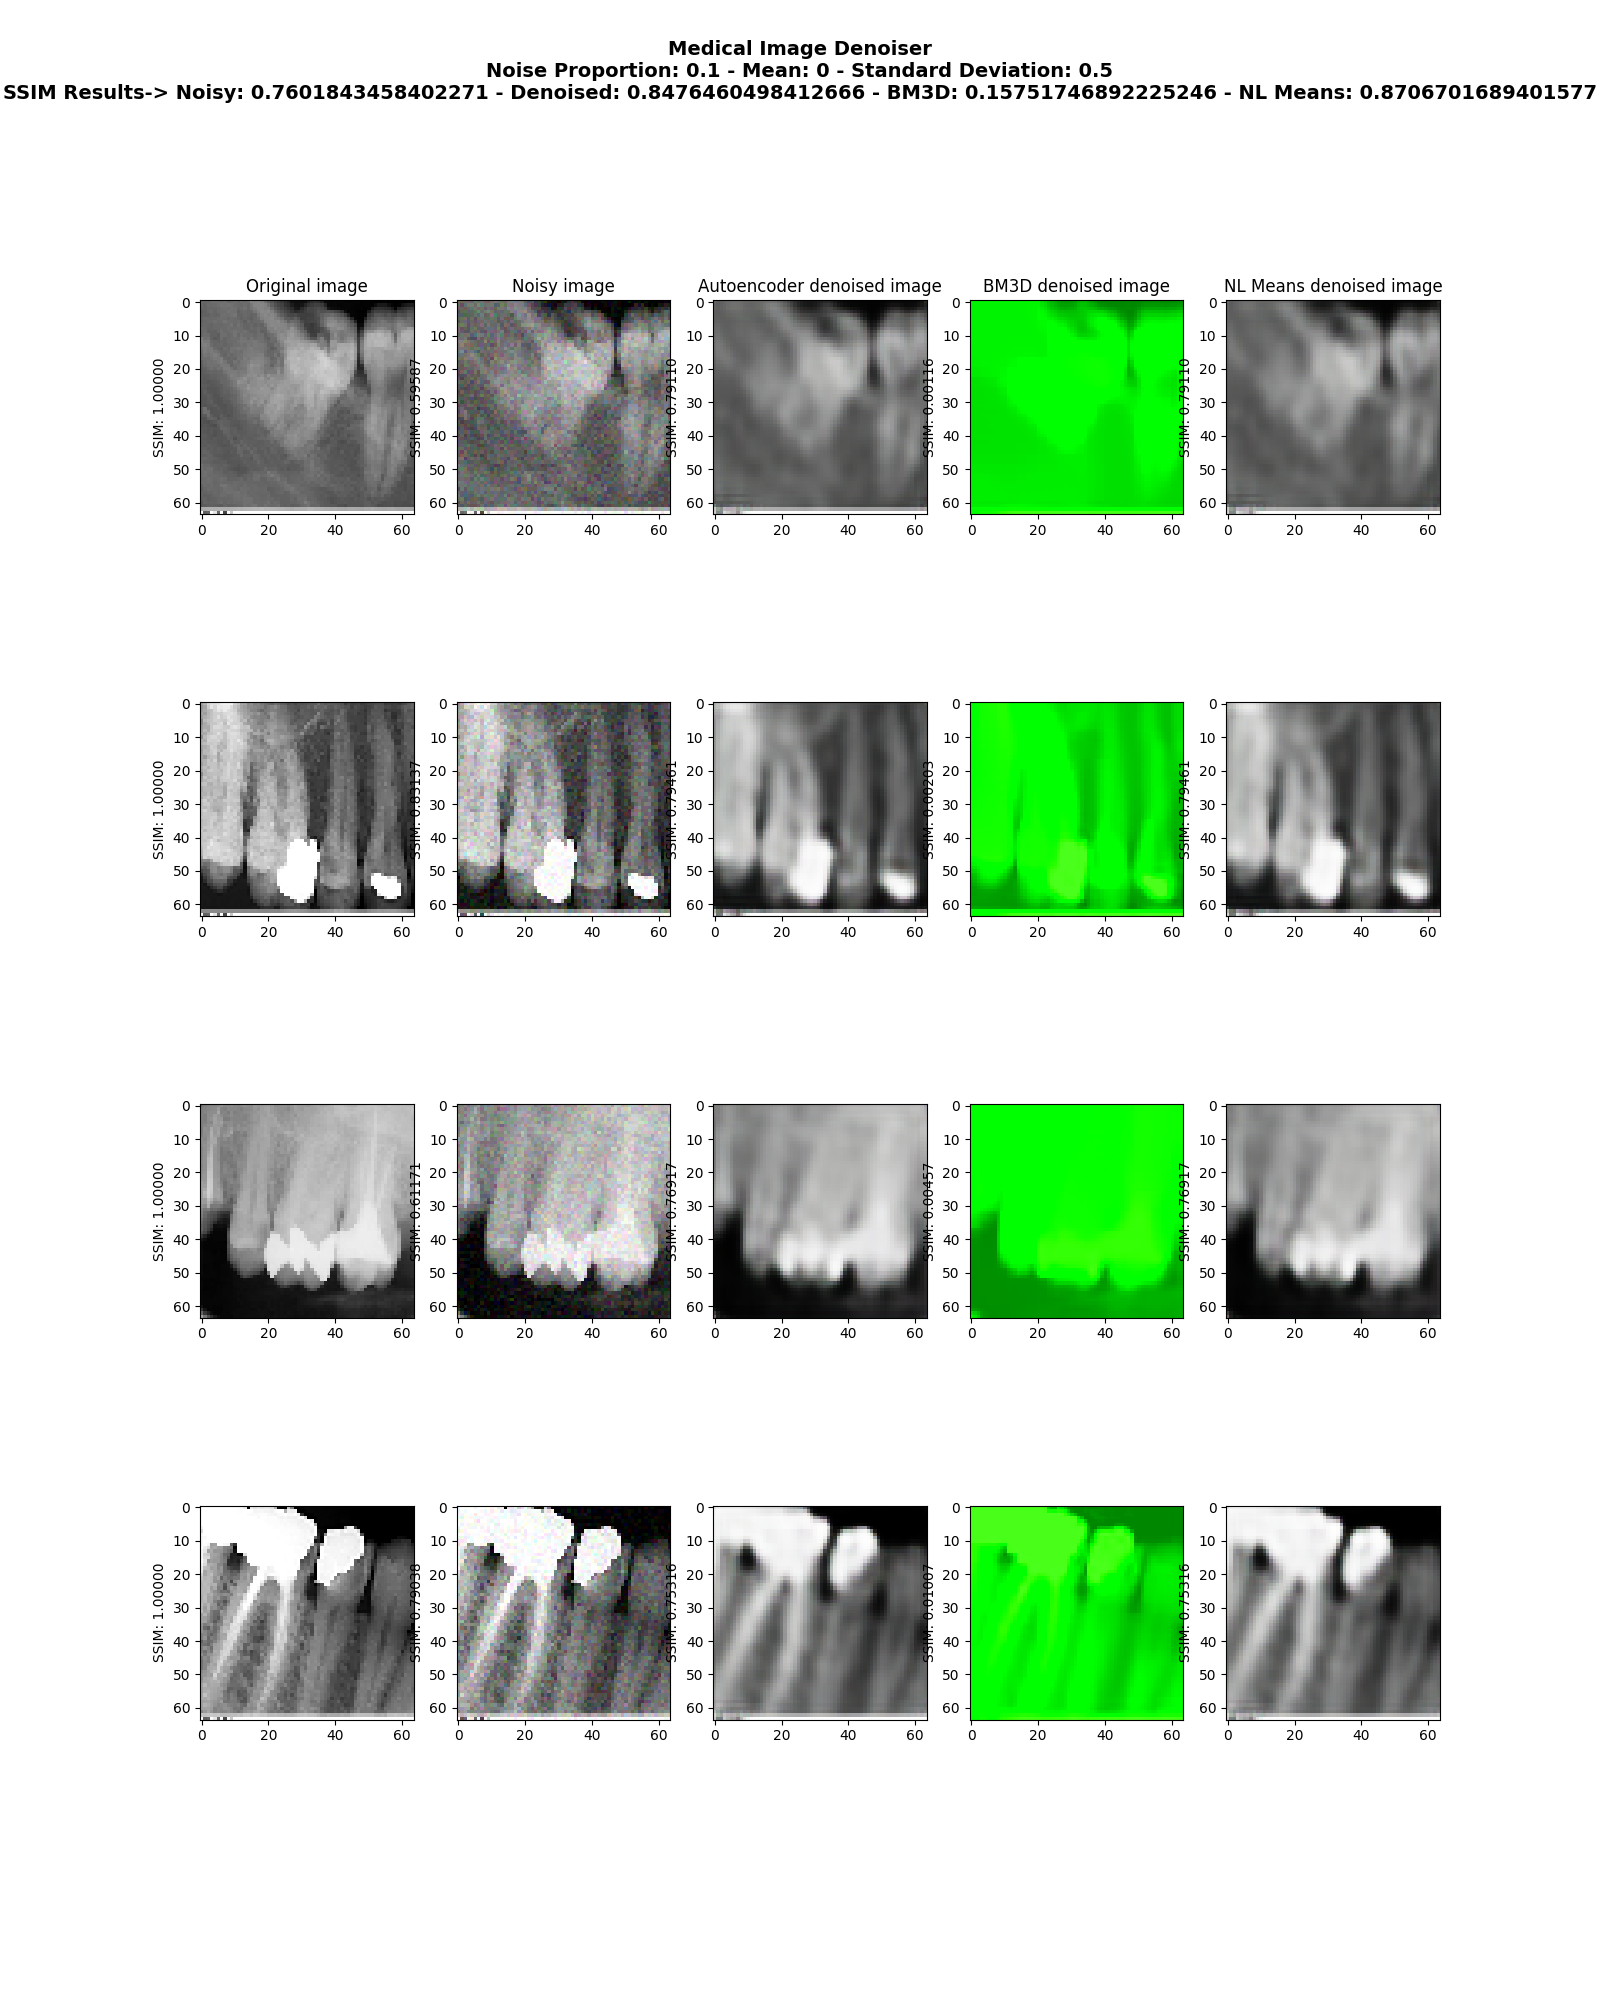
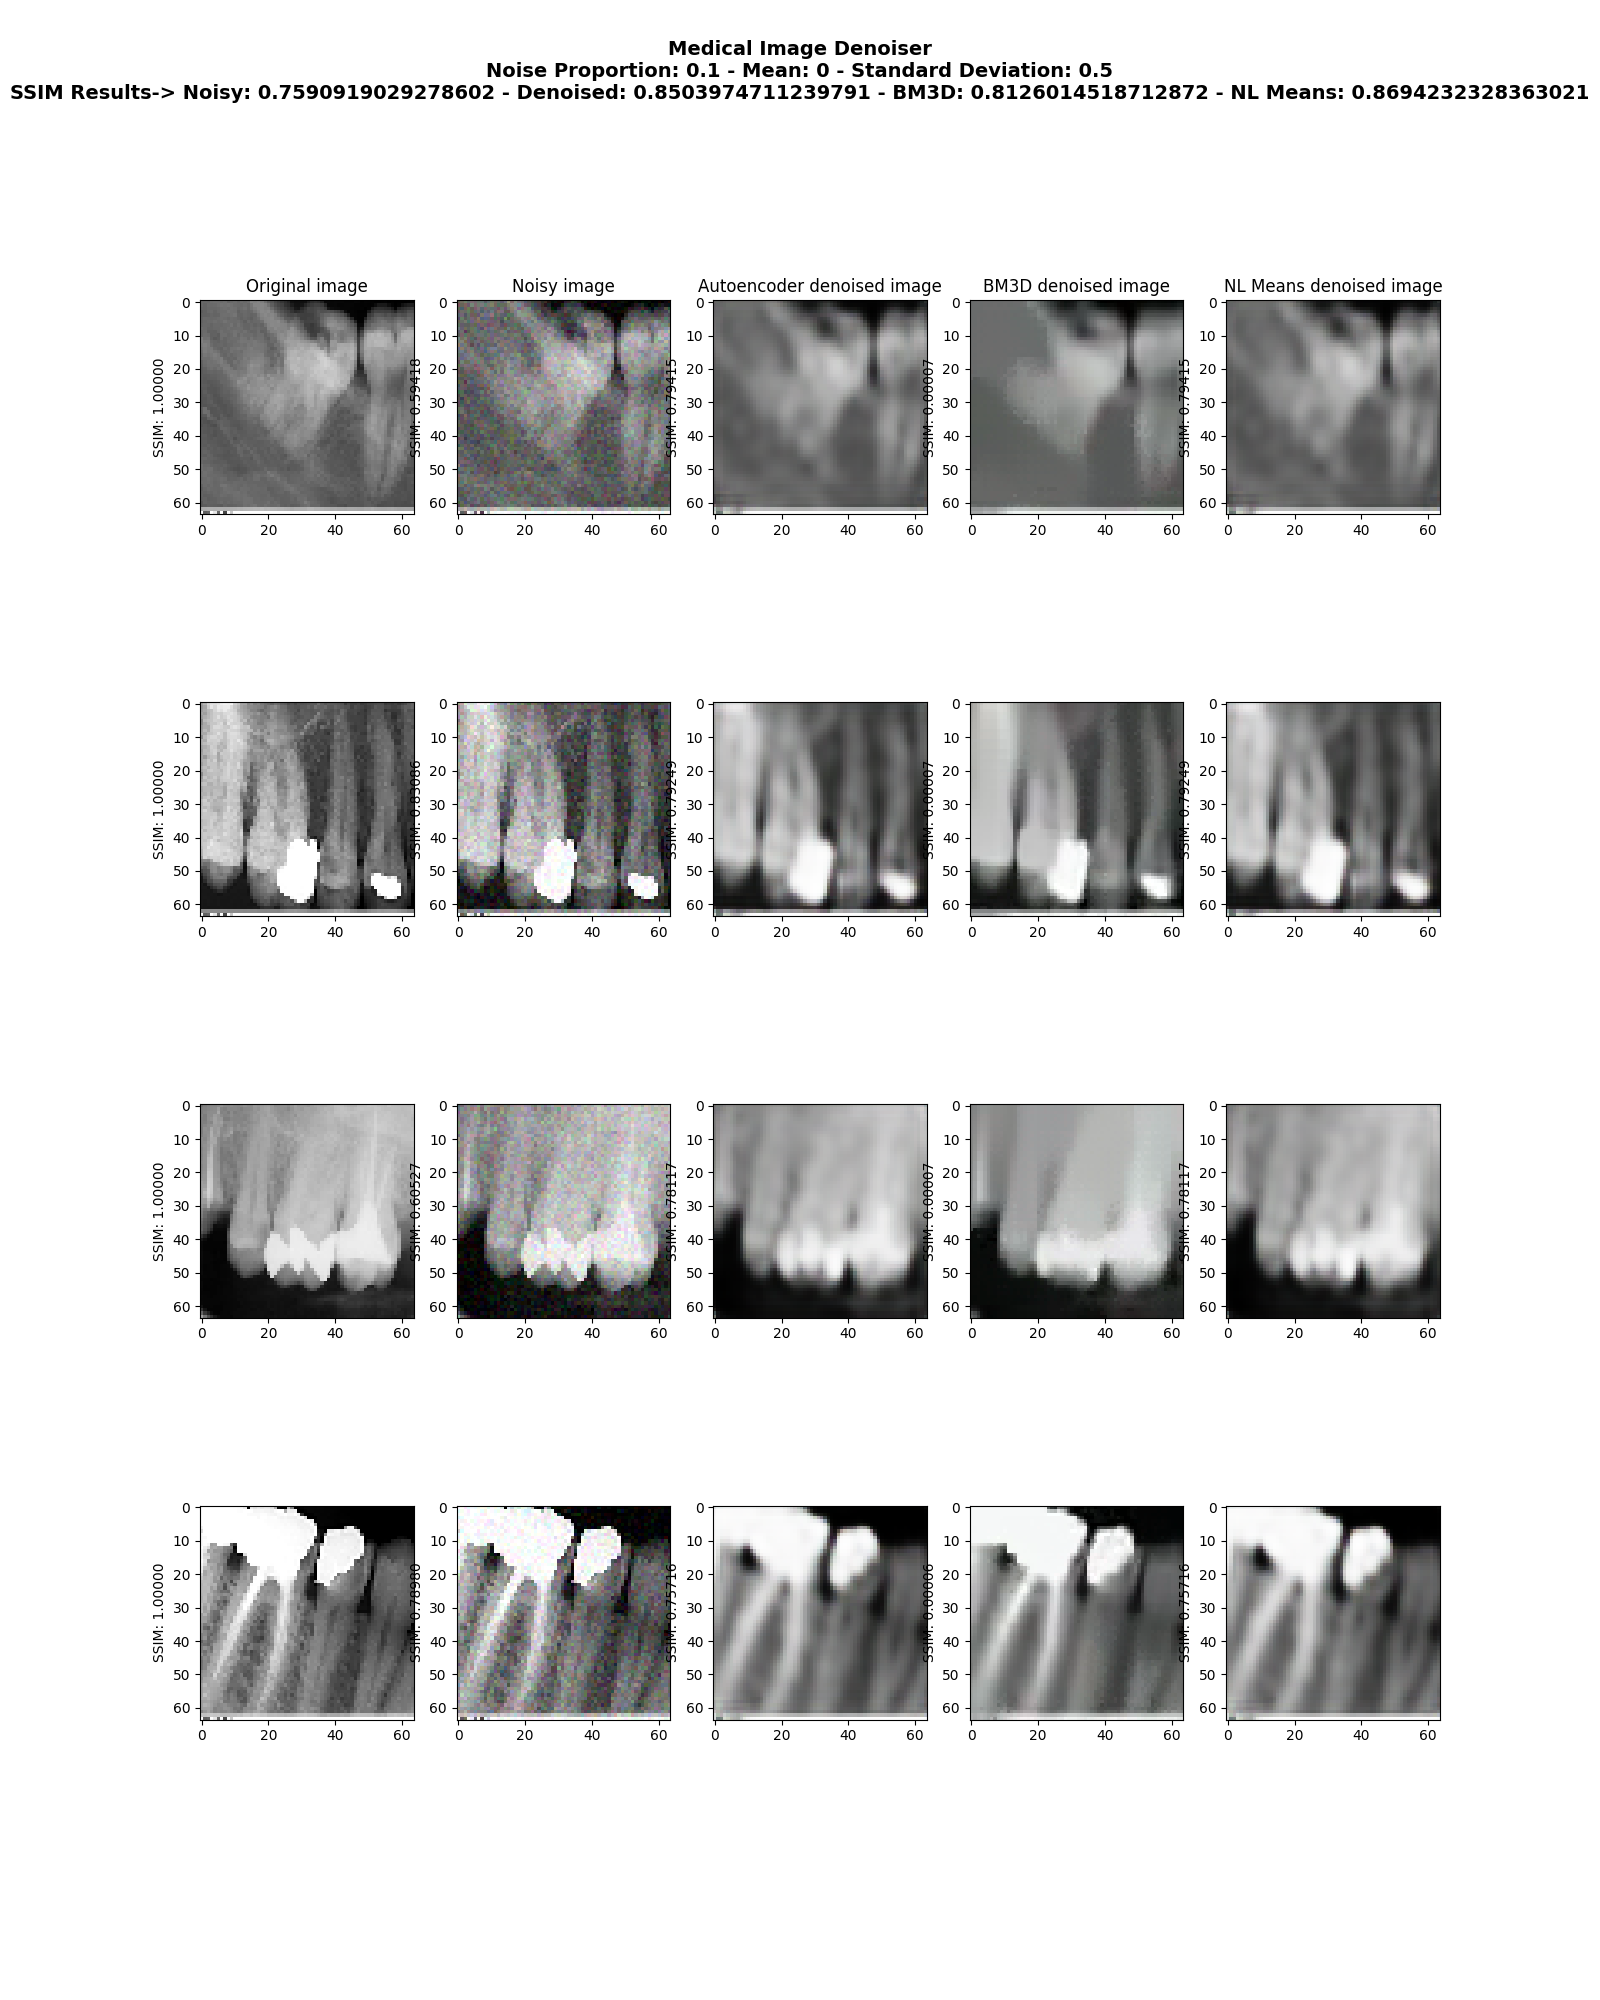
results

diff --git a/2021/src/Pre-processing/Isotropic/Noise/src/denoising_rgb/conv_denoiser.py b/2021/src/Pre-processing/Isotropic/Noise/src/denoising_rgb/conv_denoiser.py
@@ -26,8 +26,8 @@ def bm3d_denoise(noisy_image):
     #                             size=img_gold.shape).astype(numpy.int32)
 
     # img = img_gold + noise
-    # img = numpy.clip(img, 0, 255)
-    # img = img.astype(numpy.uint8)
+    noisy_image = np.clip(noisy_image, 0, 255)
+    noisy_image = noisy_image.astype(np.uint8)
 
     imgYCB = cv2.cvtColor(noisy_image, cv2.COLOR_BGR2YCrCb)
     # imgYCB_gold = cv2.cvtColor(img_gold, cv2.COLOR_BGR2YCrCb)
